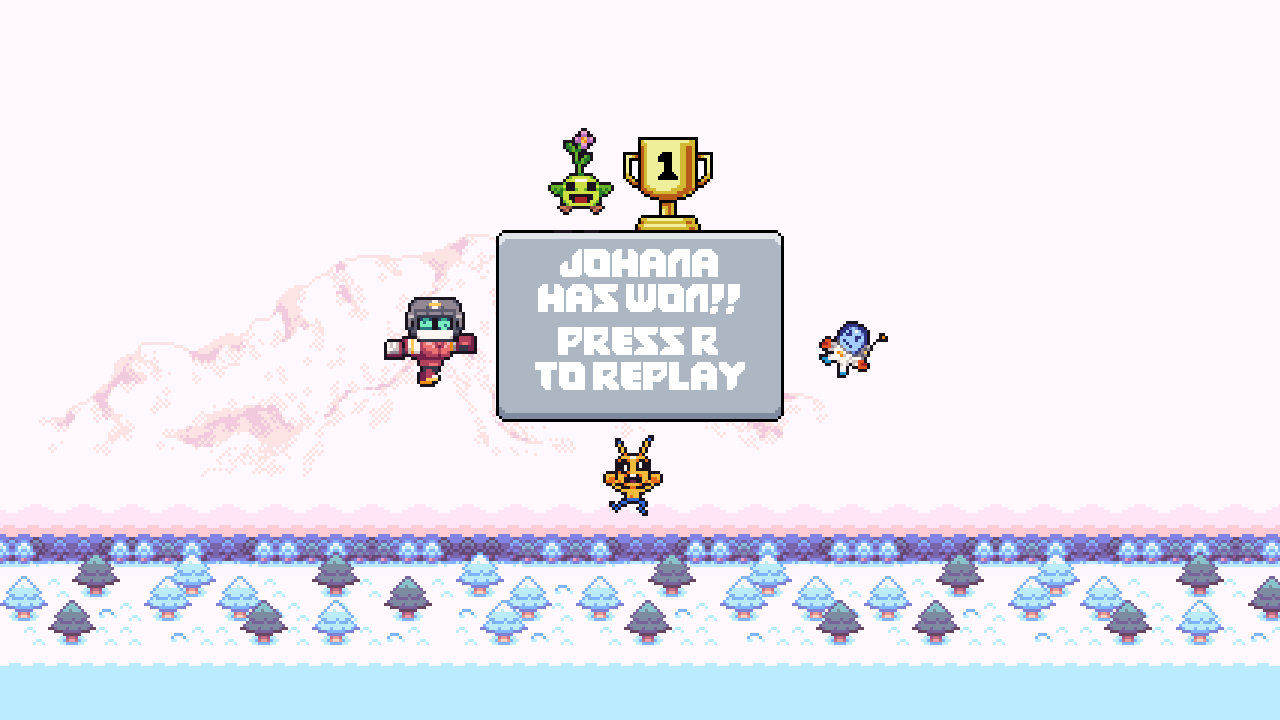
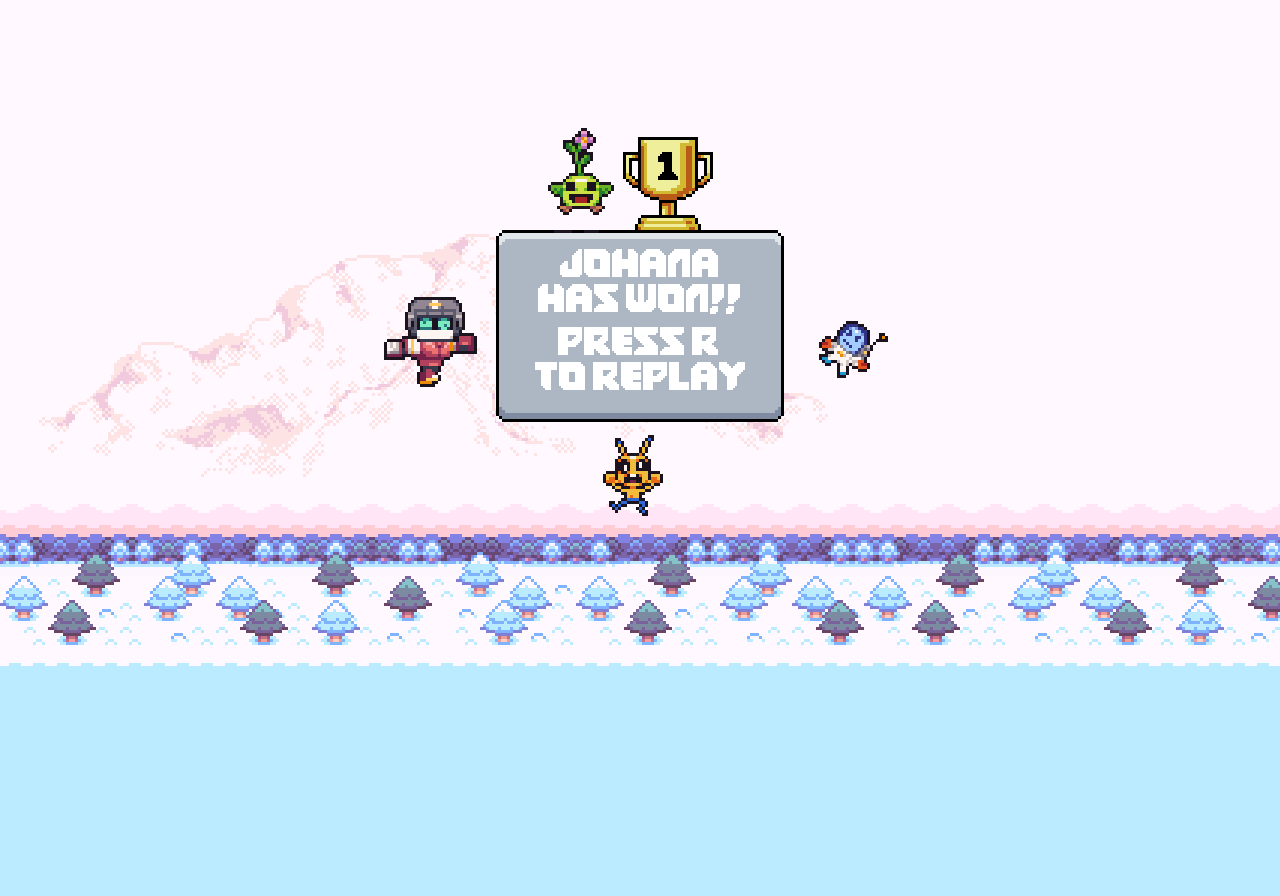
Nose

diff --git a/RacingGameFisica2/Source/ModuleGame.cpp b/RacingGameFisica2/Source/ModuleGame.cpp
@@ -770,9 +770,9 @@ public:
     float boostedMaxSpeedHa = 5.0f;
 
 	// Rotations for each kart
-	float rotationKa = 2.5f;
+	float rotationKa = 2.25f;
 	float rotationTa = 2.75f;
-    float rotationHa = 1.5f;
+    float rotationHa = 1.25f;
 	float rotationJo = 2.0f;
 
 	float maxSpeed = 2.0f;
@@ -990,7 +990,6 @@ bool ModuleGame::Start()
     player1Select = LoadTexture("Assets/player1select.png");
 	player2Select = LoadTexture("Assets/player2select.png");
 	background = LoadTexture("Assets/Mapa1Racing.png");
-    leaderboard2 = LoadTexture("Assets/leaderboard2.png");
 
     engine_fx = App->audio->LoadFx("Assets/drive.wav");
     boost_fx = App->audio->LoadFx("Assets/boost.wav"); 
@@ -1019,6 +1018,7 @@ bool ModuleGame::Start()
 bool ModuleGame::CleanUp()
 {
     LOG("Unloading Intro scene");
+	RemoveAllCollisionsAndSensors();
 	UnloadTexture(cone);
 	UnloadTexture(yellowCar);
 	UnloadTexture(redCar);
@@ -1026,9 +1026,11 @@ bool ModuleGame::CleanUp()
 	UnloadTexture(blueCar);
 	UnloadTexture(mainScreen);
 	UnloadTexture(background);
-    UnloadTexture(leaderboard2);
 	UnloadMusicStream(bgm);
 	UnloadMusicStream(title);
+	UnloadMusicStream(playerSelect);
+	UnloadMusicStream(win);
+	UnloadMusicStream(loss);
     return true;
 }
 
@@ -1146,18 +1148,15 @@ update_status ModuleGame::Update()
             }
 
             if (i == 0) {
-                entities.emplace_back(DBG_NEW Kart_Player_3(App->physics, 81, 458, this, kartTexture[i], App, DEFAULT_KART));
+                entities.emplace_back(DBG_NEW Kart_Player_3(App->physics, 86, 474, this, kartTexture[i], App, DEFAULT_KART));
             }
             else {
-                entities.emplace_back(DBG_NEW Kart_Player_4(App->physics, 104, 470, this, kartTexture[i], App, DEFAULT_KART));
+                entities.emplace_back(DBG_NEW Kart_Player_4(App->physics, 109, 484, this, kartTexture[i], App, DEFAULT_KART));
                 gameState = SHOWSTAGE;
                 break; 
             }
         }
 	case SHOWSTAGE:
-        if (IsKeyPressed(KEY_F2)) {
-            gameState = PLAYING;
-        }
 		if (hasShownStage == false) {
 			showStageTimer.Start();
             App->audio->PlayFx(showStage);
@@ -1170,39 +1169,39 @@ update_status ModuleGame::Update()
         }
         if (chosenKartop1 == true && hasChosenPlayer1 == true)
         {
-            entities.emplace_back(DBG_NEW Kart_Player_1(App->physics, 104, 494, this, blueCar, App, KARTO, PLAYER1));
+            entities.emplace_back(DBG_NEW Kart_Player_1(App->physics, 109, 510, this, blueCar, App, KARTO, PLAYER1));
             hasChosenPlayer1 = false;
         }
         else if (chosenHaolienp1 == true && hasChosenPlayer1 == true)
         {
-            entities.emplace_back(DBG_NEW Kart_Player_1(App->physics, 104, 494, this, yellowCar, App, HAOLIEN, PLAYER1));
+            entities.emplace_back(DBG_NEW Kart_Player_1(App->physics, 109, 510, this, yellowCar, App, HAOLIEN, PLAYER1));
             hasChosenPlayer1 = false;
         }
         else if (chosenJohanap1 == true && hasChosenPlayer1 == true)
         {
-            entities.emplace_back(DBG_NEW Kart_Player_1(App->physics, 104, 494, this, greenCar, App, JOHANA, PLAYER1));
+            entities.emplace_back(DBG_NEW Kart_Player_1(App->physics, 109, 510, this, greenCar, App, JOHANA, PLAYER1));
             hasChosenPlayer1 = false;
         }
         else if (chosenTanketop1 == true && hasChosenPlayer1 == true)
         {
-            entities.emplace_back(DBG_NEW Kart_Player_1(App->physics, 104, 494, this, redCar, App, TANKETO, PLAYER1));
+            entities.emplace_back(DBG_NEW Kart_Player_1(App->physics, 109, 510, this, redCar, App, TANKETO, PLAYER1));
             hasChosenPlayer1 = false;
         }
 
         if (chosenKartop2 == true && hasChosenPlayer2 == true) {
-            entities.emplace_back(DBG_NEW Kart_Player_2(App->physics, 81, 482, this, blueCar, App, KARTO, PLAYER2));
+            entities.emplace_back(DBG_NEW Kart_Player_2(App->physics, 86, 500, this, blueCar, App, KARTO, PLAYER2));
             hasChosenPlayer2 = false;
         }
         else if (chosenHaolienp2 == true && hasChosenPlayer2 == true) {
-            entities.emplace_back(DBG_NEW Kart_Player_2(App->physics, 81, 482, this, yellowCar, App, HAOLIEN, PLAYER2));
+            entities.emplace_back(DBG_NEW Kart_Player_2(App->physics, 86, 500, this, yellowCar, App, HAOLIEN, PLAYER2));
             hasChosenPlayer2 = false;
         }
         else if (chosenJohanap2 == true && hasChosenPlayer2 == true) {
-            entities.emplace_back(DBG_NEW Kart_Player_2(App->physics, 81, 482, this, greenCar, App, JOHANA, PLAYER2));
+            entities.emplace_back(DBG_NEW Kart_Player_2(App->physics, 86, 500, this, greenCar, App, JOHANA, PLAYER2));
             hasChosenPlayer2 = false;
         }
         else if (chosenTanketop2 == true && hasChosenPlayer2 == true) {
-            entities.emplace_back(DBG_NEW Kart_Player_2(App->physics, 81, 482, this, redCar, App, TANKETO, PLAYER2));
+            entities.emplace_back(DBG_NEW Kart_Player_2(App->physics, 86, 500, this, redCar, App, TANKETO, PLAYER2));
             hasChosenPlayer2 = false;
         }
 		break;
@@ -1236,33 +1235,44 @@ update_status ModuleGame::Update()
     case PLAYING:
 		raceStarted = true;
         DrawTexture(background, 0, 0, WHITE);
-        DrawTexture(leaderboard2, SCREEN_WIDTH - 247, SCREEN_HEIGHT - 298, WHITE);
         lap_time = GetTime() - lap_start_time;
-        App->fontsModule->DrawText(1065, 638, TextFormat("BEST TIME:%.2f", best_lap_time), 12, WHITE); 
-        App->fontsModule->DrawText(1065, 674, TextFormat("LAP TIME:%.2f", lap_time ), 12, WHITE);
+        App->fontsModule->DrawText(1060, 848, TextFormat("BEST: %.2f", best_lap_time), 16, WHITE);
+        App->fontsModule->DrawText(1093, 777, TextFormat("%.2f", lap_time ), 20, WHITE);
             for (PhysicEntity* entity : entities)
         {
             if (FinishCheckpointSensor* finish = dynamic_cast<FinishCheckpointSensor*>(entity))
             {
-                App->fontsModule->DrawText(1035, 500, TextFormat("LAP:%d", finish->lap), 20, WHITE);
+                App->fontsModule->DrawText(27, 770, TextFormat("LAP:%d", finish->lap), 20, WHITE);
             } 
             if (Kart_Player_1* kart_1 = dynamic_cast<Kart_Player_1*>(entity))
             {
-                if (kart_1->CurrentRank == 3) {
-                    App->fontsModule->DrawText(1105, 488, TextFormat("KART 1"), 20, WHITE);     
+                if (kart_1->CurrentRank == 1) {
+                    App->fontsModule->DrawText(469, 789, TextFormat("KART 1"), 20, WHITE);     
                 }
-                else {
-                    App->fontsModule->DrawText(1105, 522, TextFormat("KART 1"), 20, WHITE);
+                else if (kart_1->CurrentRank == 2) {
+                    App->fontsModule->DrawText(469, 825, TextFormat("KART 1"), 20, WHITE);
                 }
+				else if (kart_1->CurrentRank == 3) {
+					App->fontsModule->DrawText(680, 789, TextFormat("KART 1"), 20, WHITE);
+				}
+				else if (kart_1->CurrentRank == 4) {
+					App->fontsModule->DrawText(680, 825, TextFormat("KART 1"), 20, WHITE);
+				}
             }
             if (Kart_Player_2* kart_2 = dynamic_cast<Kart_Player_2*>(entity))
             {
-                if (kart_2->CurrentRank == 3) {
-                    App->fontsModule->DrawText(1105, 488, TextFormat("KART 2"), 20, WHITE);
+                if (kart_2->CurrentRank == 1) {
+                    App->fontsModule->DrawText(469, 789, TextFormat("KART 2"), 20, WHITE);
                 }
-                else {
-                    App->fontsModule->DrawText(1105, 524, TextFormat("KART 2"), 20, WHITE);
+                else if (kart_2->CurrentRank == 2) {
+                    App->fontsModule->DrawText(469, 825, TextFormat("KART 2"), 20, WHITE);
                 }
+                else if (kart_2->CurrentRank == 3) {
+                    App->fontsModule->DrawText(680, 789, TextFormat("KART 2"), 20, WHITE);
+                }
+				else if (kart_2->CurrentRank == 4) {
+					App->fontsModule->DrawText(680, 825, TextFormat("KART 2"), 20, WHITE);
+				}
             }
 
             entity->Update();
@@ -1374,6 +1384,7 @@ update_status ModuleGame::Update()
         ray.x = GetMouseX();
         ray.y = GetMouseY();
     }
+
 
     // Prepare for raycast ------------------------------------------------------
     vec2i mouse;

diff --git a/RacingGameFisica2/Source/Globals.h b/RacingGameFisica2/Source/Globals.h
@@ -31,7 +31,7 @@ enum update_status
 
 // Configuration -----------
 #define SCREEN_WIDTH		 1280
-#define SCREEN_HEIGHT		  720
+#define SCREEN_HEIGHT		  896
 #define SCREEN_SIZE				1
 #define WIN_FULLSCREEN		false
 #define WIN_RESIZABLE		false

diff --git a/RacingGameFisica2/Source/ModuleGame.h b/RacingGameFisica2/Source/ModuleGame.h
@@ -89,7 +89,9 @@ public:
 	Texture2D player1Select;
 	Texture2D player2Select;
 	Texture2D background;
-	Texture2D leaderboard2;
+	Texture2D leaderboard;
+	Texture2D stats;
+	Texture2D bestTimes;
 
 	Texture2D three;
 	Texture2D two;
